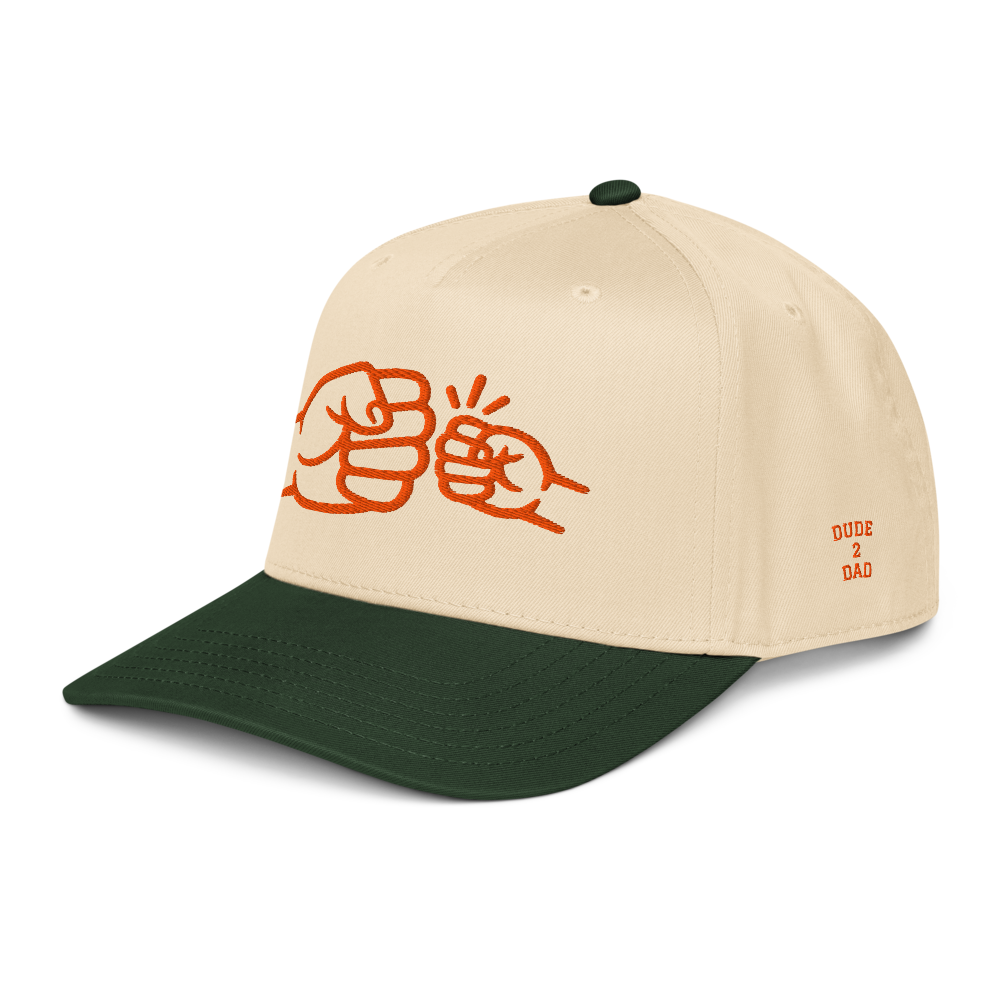
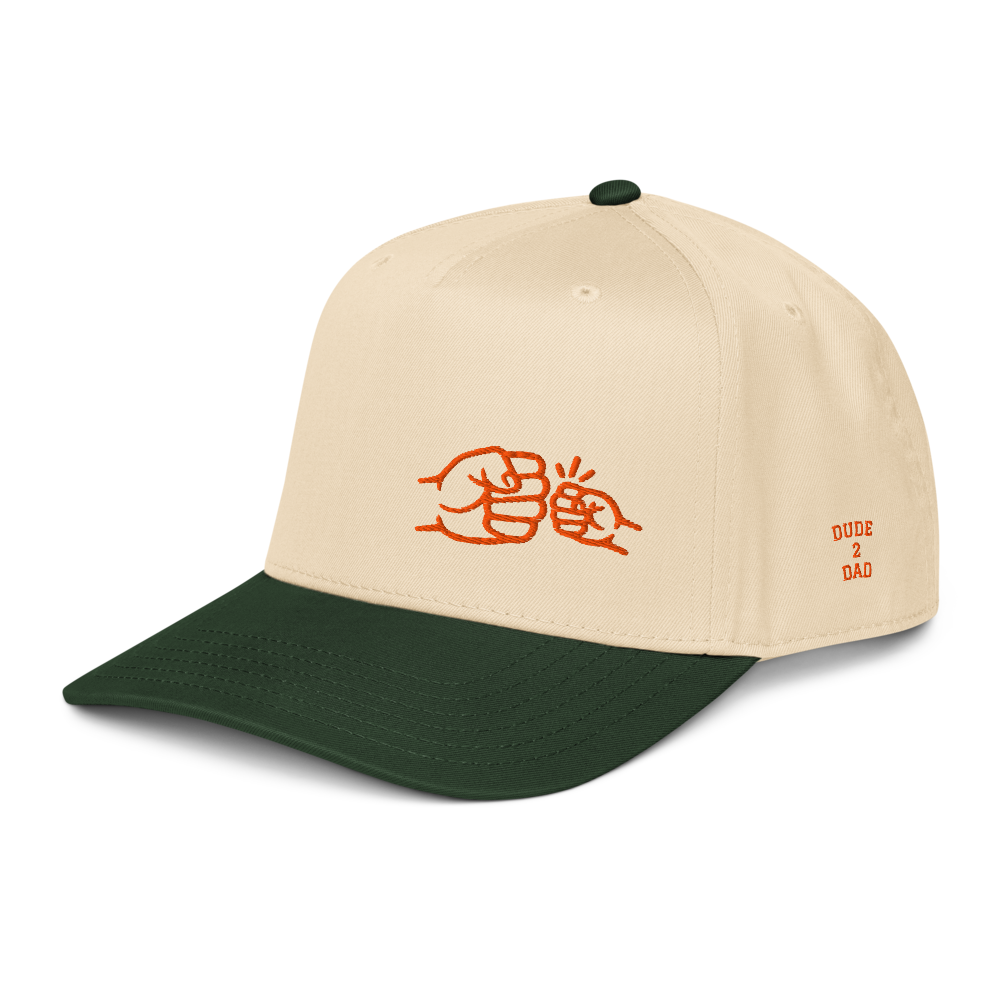
Swap in corrected Rookie mockups, rename add-on to Dude to Dad, +$1 surcharge
- Regenerated and swapped in all 24 Rookie mockup photos (12 color
  variants x front/left) using the fixed small/off-center fist-bump
  placement from the previous commit — the old images were generated
  before that fix landed and still had the oversized, dead-centered logo.
- Renamed the side-stitch add-on's user-facing copy from 'Dude² Dad' to
  'Dude to Dad' throughout (toggle button, hero copy, hatLabel() used in
  receipt/notification emails). The physical embroidery text on the real
  product is unchanged — this is copy only.
- Added a $1 surcharge for the add-on: lib/stripe.ts now accepts an
  optional extraLineItem, added as a second Stripe line item priced via
  price_data (a real Stripe object) so it doesn't need its own $39 Price
  ID per hat variant. create-checkout-session.ts adds it automatically
  when the selected hat's addon flag is set. Receipt copy in
  stripe-webhook.ts's PRODUCTS map now shows $39 for those variants.
  merch.astro's price line and Buy button update live as the add-on
  toggle is switched.

Changed region(s): [[0.279, 0.341, 0.651, 0.558]]

diff --git a/src/lib/stripe.ts b/src/lib/stripe.ts
@@ -53,6 +53,13 @@ export async function createCheckoutSession(
     // Subscriptions already generate invoices automatically, so this only
     // matters (and is only passed) for one-time purchases.
     invoiceCreation?: boolean;
+    // Optional second line item priced inline via Stripe's price_data
+    // instead of a pre-created Price object — used for the $1 Dude to Dad
+    // add-on surcharge so it doesn't need its own Stripe Price ID per hat
+    // variant (28 variants × 2 add-on states would mean maintaining twice as
+    // many price env vars for a flat $1 bump). Shows up as its own line item
+    // at Stripe Checkout, e.g. "Dudela Hat — $38" + "Dude to Dad Stitch — $1".
+    extraLineItem?: { name: string; unitAmountCents: number };
   }
 ) {
   const mode = opts.mode || "payment";
@@ -63,6 +70,12 @@ export async function createCheckoutSession(
     success_url: opts.successUrl,
     cancel_url: opts.cancelUrl,
   };
+  if (opts.extraLineItem) {
+    params["line_items[1][price_data][currency]"] = "usd";
+    params["line_items[1][price_data][unit_amount]"] = String(opts.extraLineItem.unitAmountCents);
+    params["line_items[1][price_data][product_data][name]"] = opts.extraLineItem.name;
+    params["line_items[1][quantity]"] = "1";
+  }
   // Stripe rejects a session that sets both `customer` and `customer_email` —
   // prefer the known customer id so the purchase attaches to their existing
   // record instead of spinning up a new disconnected guest customer.

diff --git a/src/pages/api/create-checkout-session.ts b/src/pages/api/create-checkout-session.ts
@@ -2,7 +2,7 @@ import type { APIContext } from "astro";
 import { createCheckoutSession } from "../../lib/stripe";
 import { countMerchOrders } from "../../lib/db";
 import { getAuthedMember } from "../../lib/auth";
-import { HAT_CATALOG } from "../../lib/printful";
+import { HAT_CATALOG, getHatVariant } from "../../lib/printful";
 
 export const prerender = false;
 
@@ -107,6 +107,13 @@ export async function GET({ request, locals, cookies }: APIContext) {
     }
   }
 
+  // The $1 Dude to Dad side-stitch add-on is its own Stripe line item (see
+  // lib/stripe.ts) rather than a separate $39 Price object per hat variant —
+  // added here, not baked into priceId, so the base hat price stays a single
+  // shared Stripe Price across all 28 variants.
+  const hatVariant = productConfig.merchColor ? getHatVariant(productConfig.merchColor) : undefined;
+  const extraLineItem = hatVariant?.addon ? { name: 'Dude to Dad Stitch', unitAmountCents: 100 } : undefined;
+
   try {
     const session = await createCheckoutSession(env, {
       priceId,
@@ -122,6 +129,7 @@ export async function GET({ request, locals, cookies }: APIContext) {
       // it actually shows up in the Billing Portal's invoice history instead
       // of being an invisible PaymentIntent the portal has nothing to display.
       invoiceCreation: productConfig.mode === "payment",
+      extraLineItem,
     });
 
     return new Response(null, {

diff --git a/src/lib/printful.ts b/src/lib/printful.ts
@@ -531,10 +531,19 @@ export function getHatVariant(key: string): HatVariant | undefined {
 }
 
 // Readable label for receipts/internal notification emails — e.g.
-// "Dudela Hat — The Classic, Black / Natural Bill (Rust Orange Stitching, Dude² Dad Add-On)"
+// "Dudela Hat — The Classic, Black / Natural Bill (Rust Orange Stitching, Dude to Dad Stitch)"
 export function hatLabel(v: HatVariant): string {
-  const addonPart = v.addon ? ", Dude² Dad Add-On" : "";
+  const addonPart = v.addon ? ", Dude to Dad Stitch" : "";
   return `Dudela Hat — ${v.designLabel}, ${v.colorLabel} (${v.threadLabel} Stitching${addonPart})`;
+}
+
+// "38.00" for a plain hat, "39.00" with the Dude to Dad side-stitch add-on
+// (+$1). Not read anywhere yet as the literal Stripe charge (checkout adds
+// the $1 as its own line item — see create-checkout-session.ts), but kept
+// accurate here since it's the one place that documents the real per-variant
+// price, and receipt copy (stripe-webhook.ts PRODUCTS) derives from it.
+export function hatPrice(v: HatVariant): string {
+  return v.addon ? "39.00" : "38.00";
 }
 
 export interface PrintfulRecipient {

diff --git a/src/pages/api/stripe-webhook.ts b/src/pages/api/stripe-webhook.ts
@@ -51,7 +51,13 @@ export const PRODUCTS: Record<
   // hand-typed so this can never drift out of sync with what's actually
   // buyable on /merch.
   ...Object.fromEntries(
-    HAT_CATALOG.map((hat) => [hat.key, { name: hatLabel(hat), price: "$38", isMerch: true }])
+    HAT_CATALOG.map((hat) => [
+      hat.key,
+      // $39 for Dude to Dad Stitch variants — the $1 add-on surcharge is a
+      // separate Stripe line item (see create-checkout-session.ts), but the
+      // receipt copy should still show what was actually charged.
+      { name: hatLabel(hat), price: hat.addon ? "$39" : "$38", isMerch: true },
+    ])
   ),
 };
 
